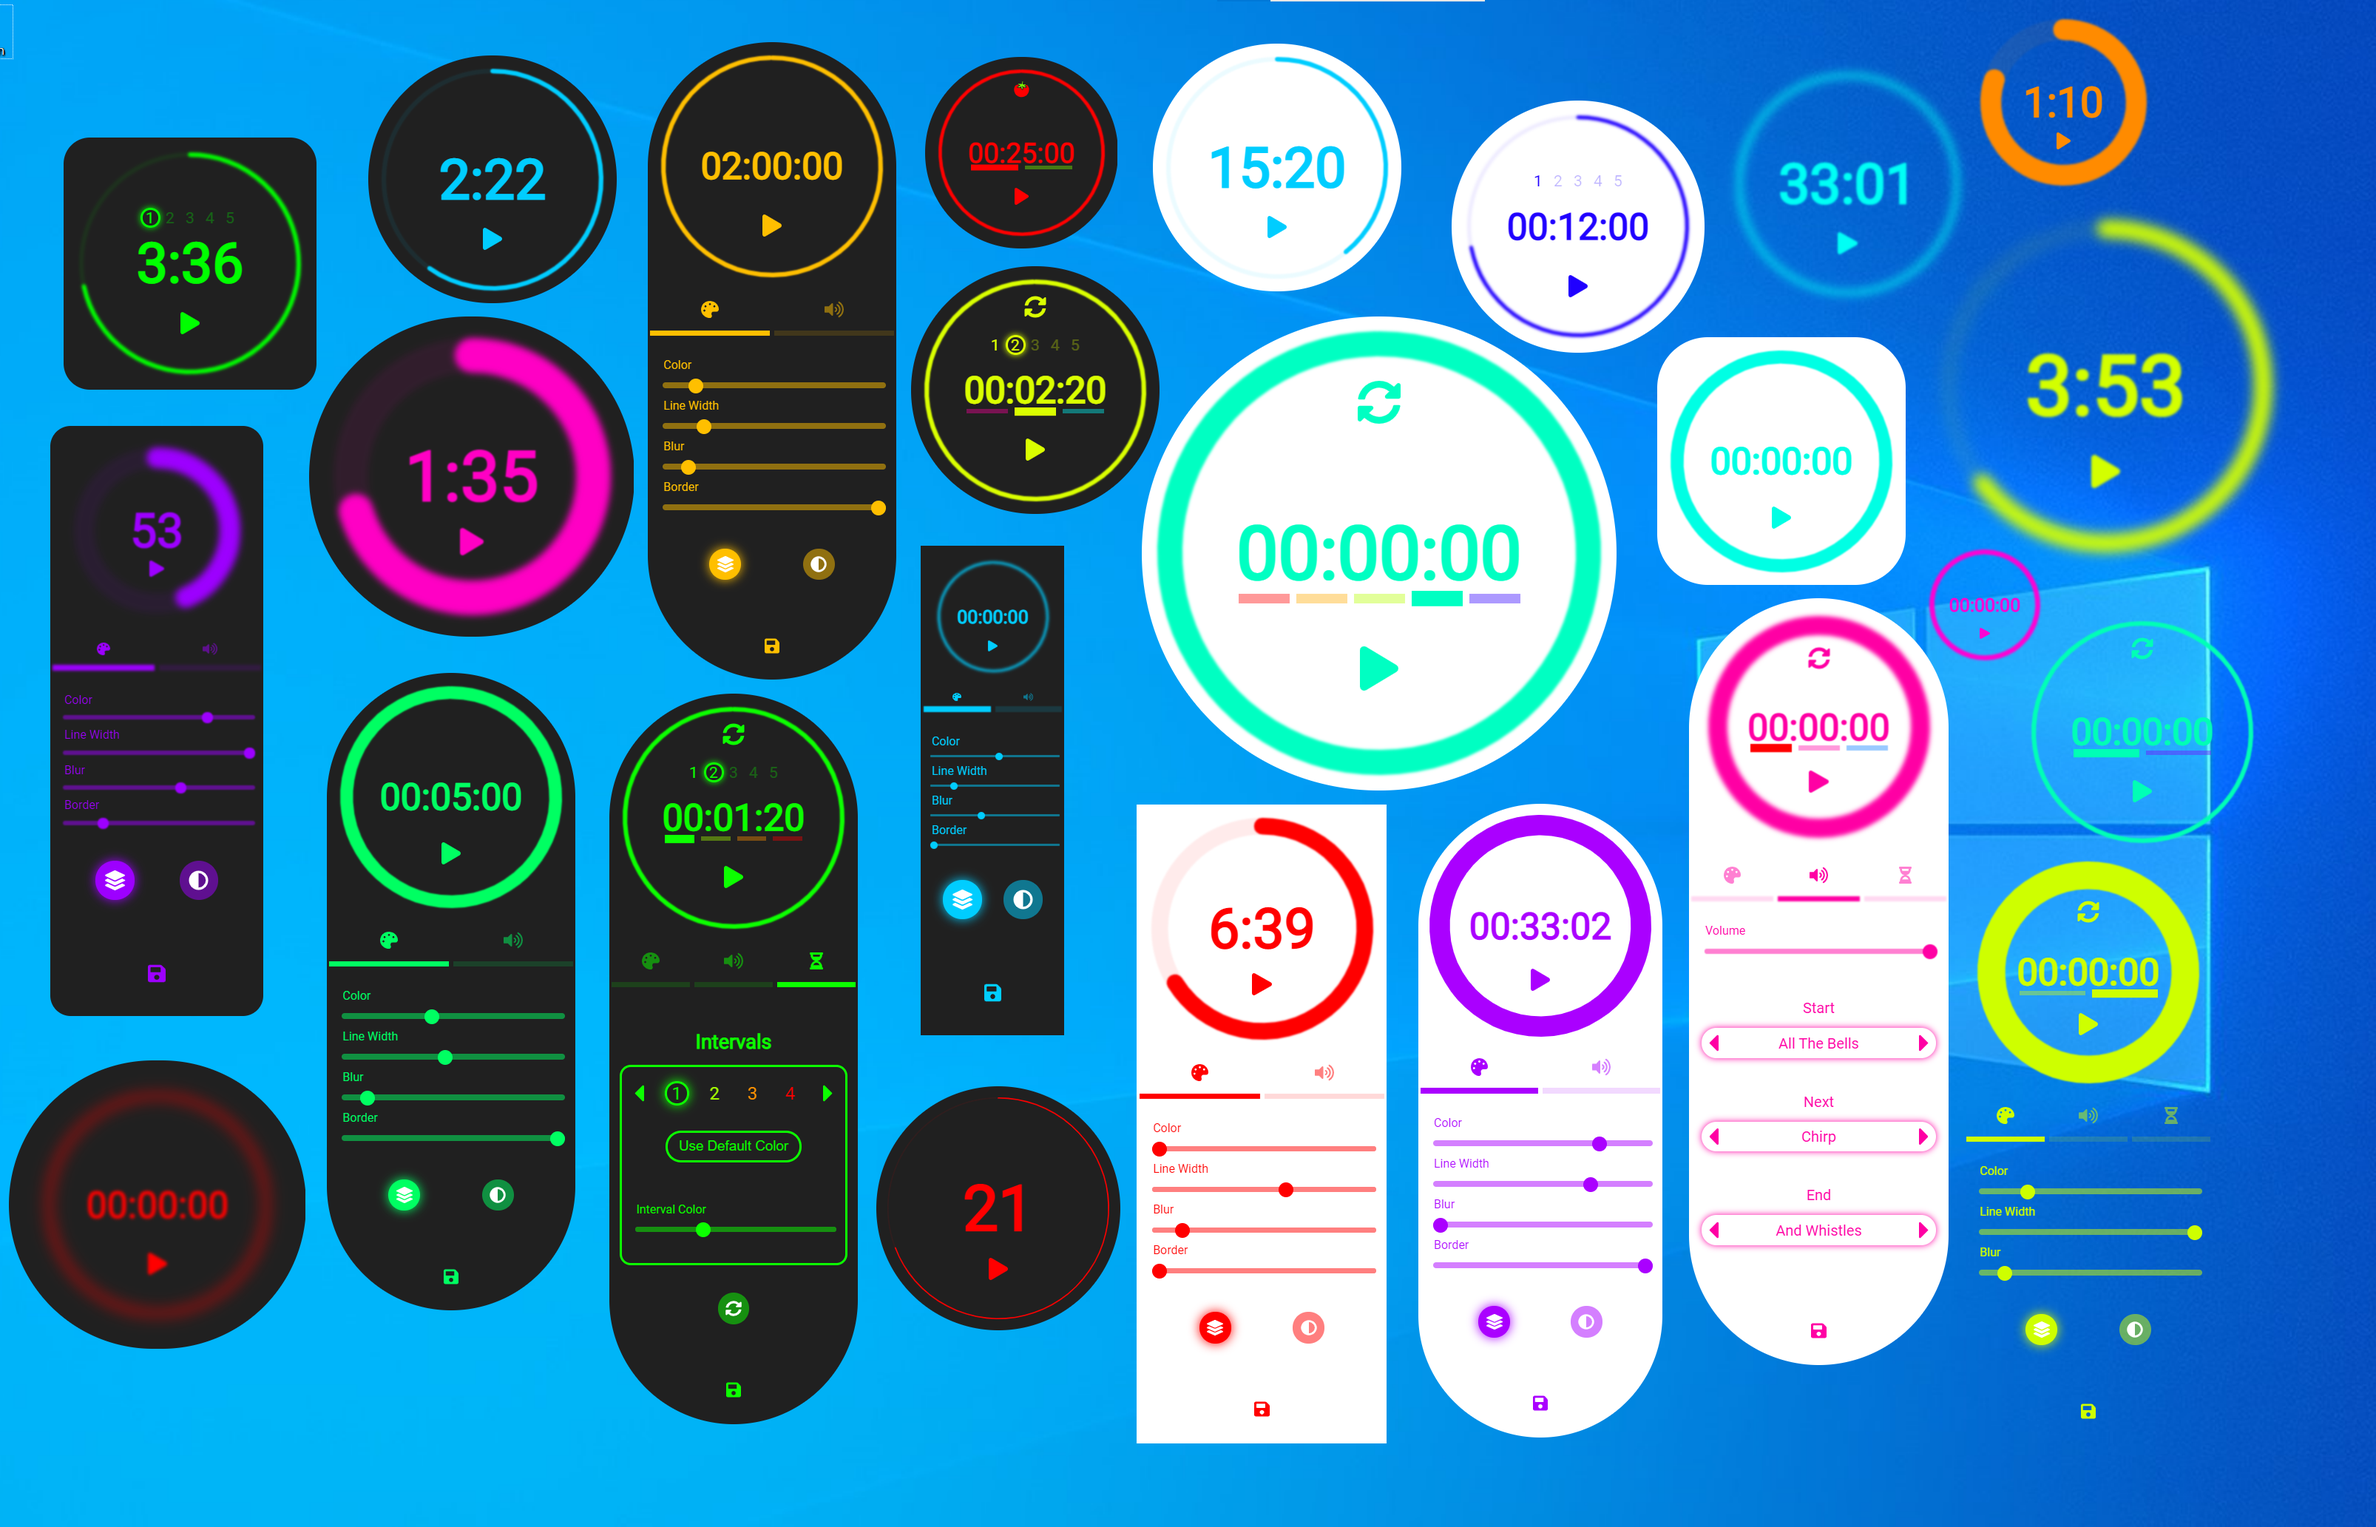
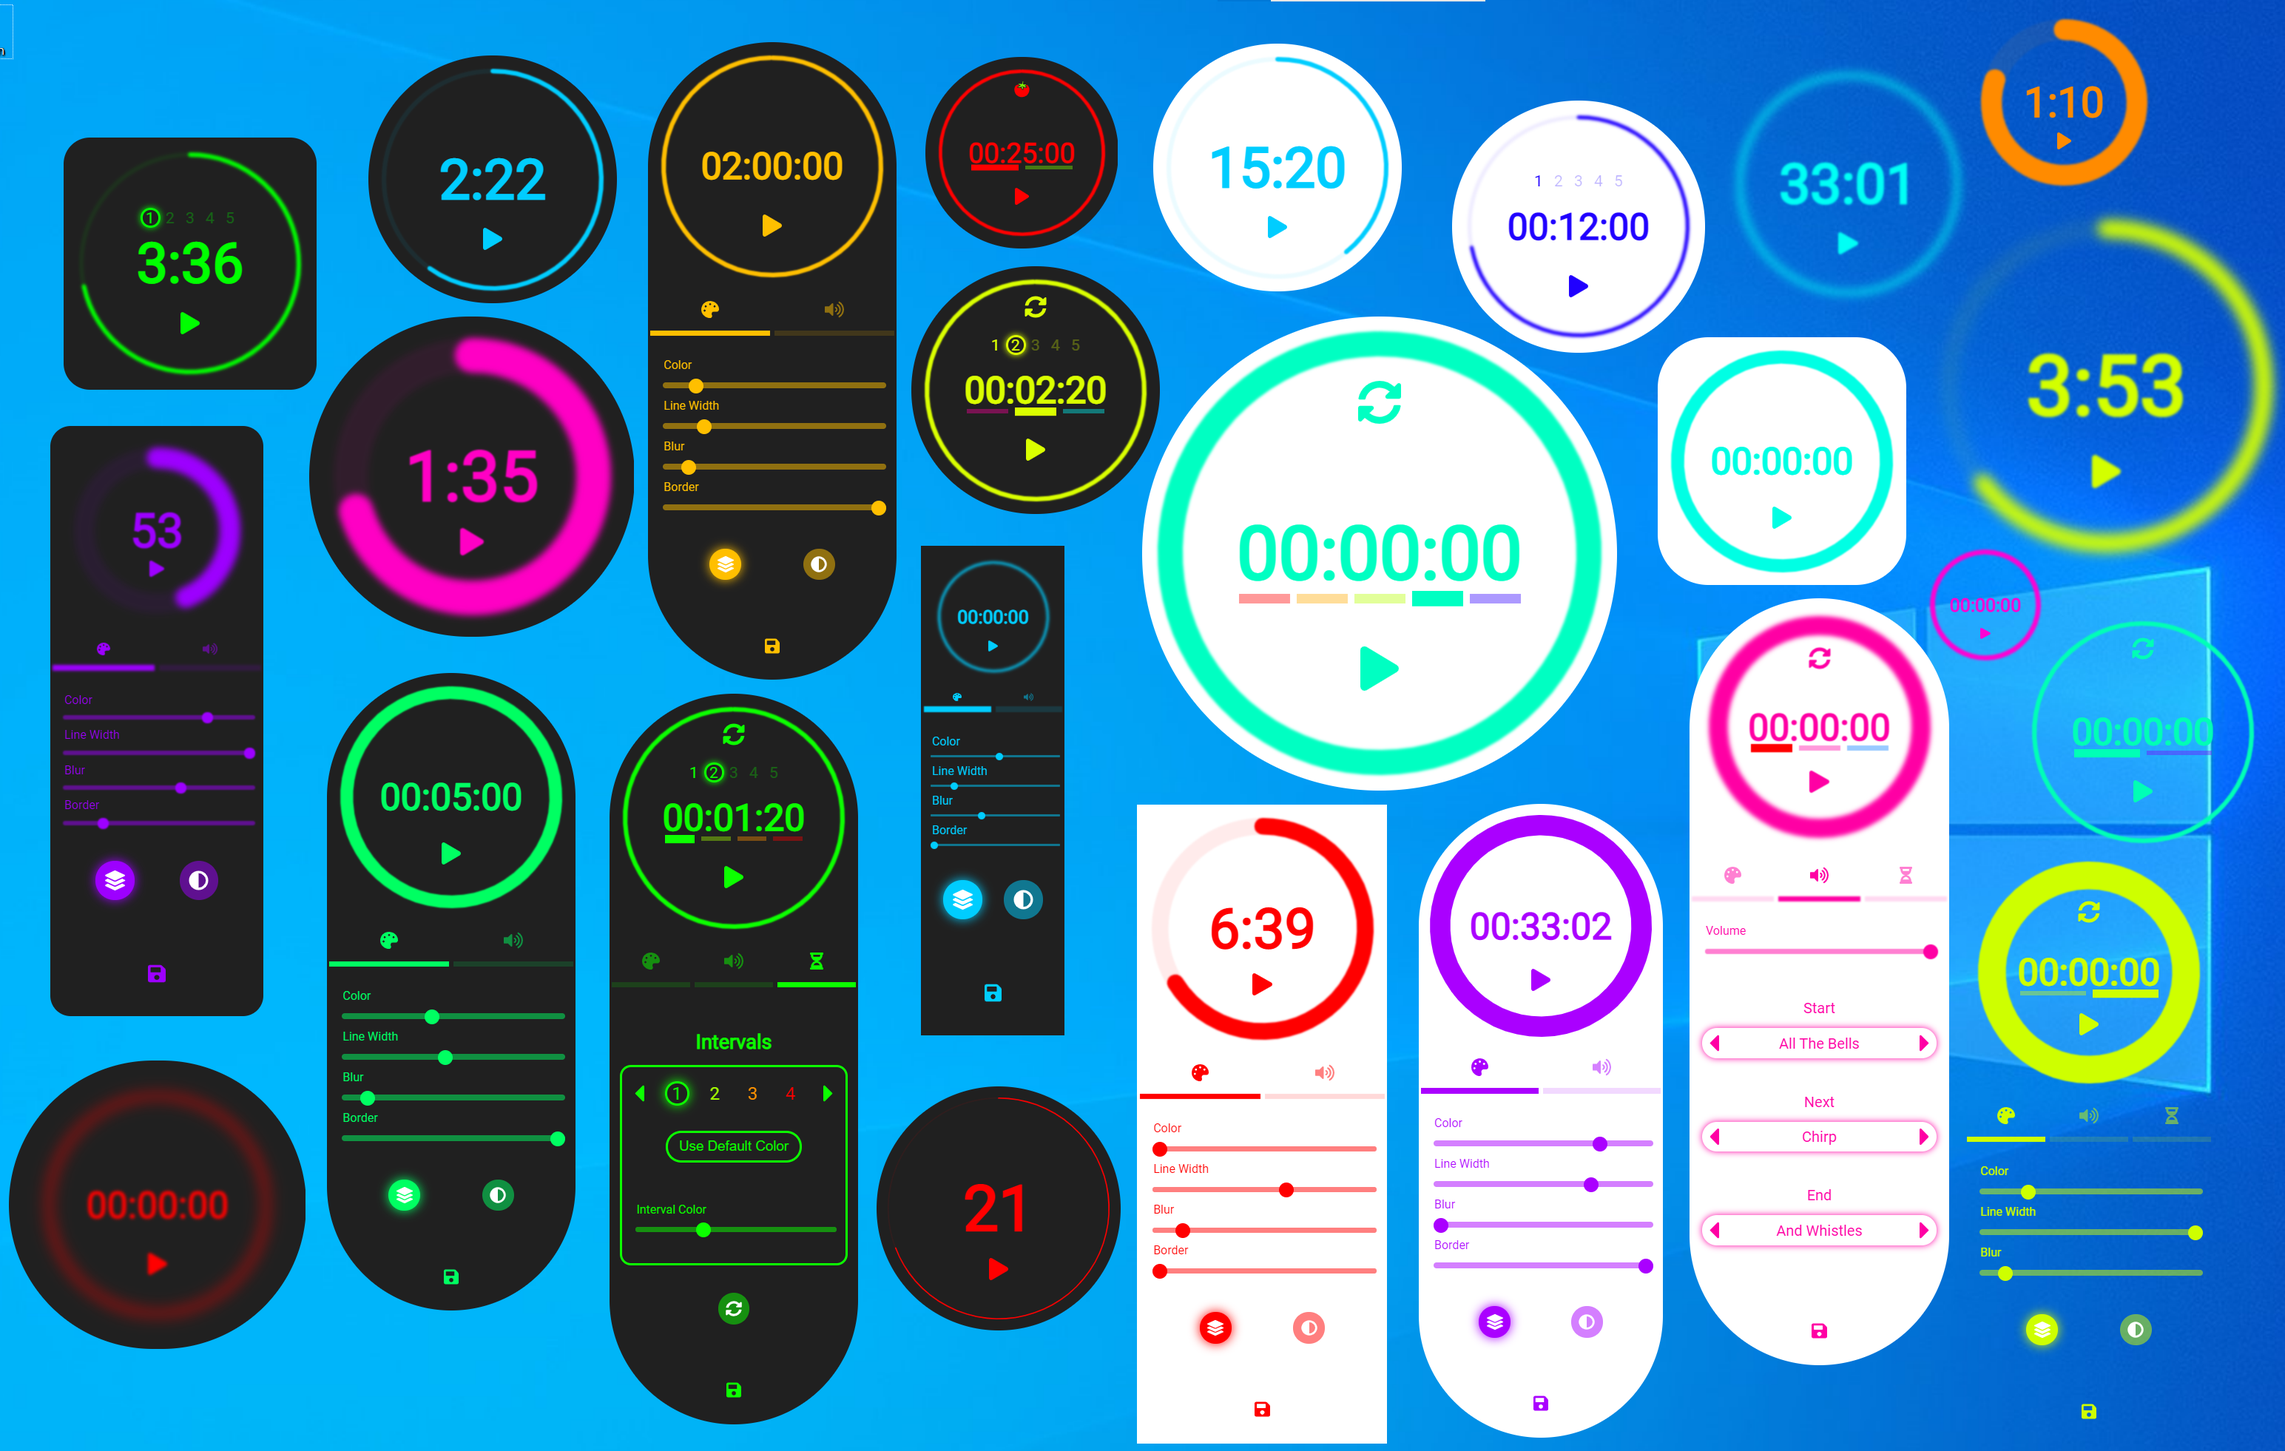
New style demo pic

diff --git a/README.md b/README.md
@@ -4,4 +4,4 @@
 Tempor is an Electron.js timer app that offers a high degree of customization. It's ideal for streamers, presenters,
 coaches, & project leaders with its stylistic customization and flexible favorites
 
-![Style demo](./assets/Style_Demo.png)
+![Style demo](./assets/StyleDemo2.png)
